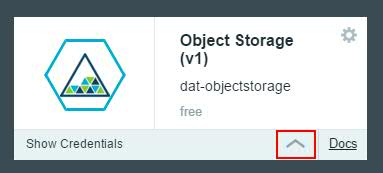
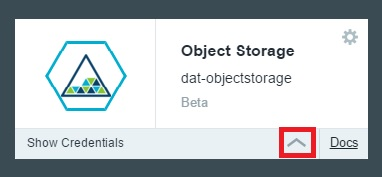
changes to readme -wes

diff --git a/README.md b/README.md
@@ -6,7 +6,7 @@
 
 The Data Analytics Transportation application demonstrates
 a data analytics workflow utilizing Bluemix's **Node-Red**, **Object Storage (v1)**, and **Spark**. Real time data is retrieved from a transportation
-system in Madrid and goes through the flow Node-Red --> MQTT --> Kafka --> Secor --> Object Storage --> Spark --> Kafka --> FreeBoard from Node-Red
+system in Madrid and goes through the flow Node-Red --> Kafka --> Secor --> Object Storage --> Spark --> Kafka --> FreeBoard from Node-Red
 
 ## Introduction
 
@@ -65,14 +65,14 @@ cloud foundry application should be running or finished.
 6. Select **SAVE**
 
 
-## Retrieve Object Storage (v1) credentials
+## Retrieve Object Storage credentials
 
 We need to grab to grab our credentials to the newly created Object Storage attached to our application
 
 
 1. Navigate to your **DASHBOARD** at http://console.ng.bluemix.net
 2. Select your newly created application from the **Deploy to Bluemix** button which will take you to your application's dashboard
-2. Below the **Object Storage (v1)** tile select the up arrow icon to expand that shows the Object Storage credentials
+2. Below the **Object Storage** tile select the up arrow icon to expand that shows the Object Storage credentials
 
 
 ![EXAMPLE](images/uparrow.jpg) 
@@ -81,7 +81,7 @@ We need to grab to grab our credentials to the newly created Object Storage atta
 Take not of the credentials to be used for the next step.
 
 
-## Add Object Storage (v1) credentials to Secor
+## Add Object Storage credentials to Secor
 
 1. Navigate back to your http://hub.jazz.net project
 2. Select **EDIT CODE** in the top right of the screen to take you to your Web IDE
